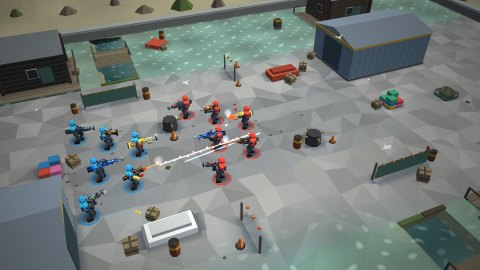
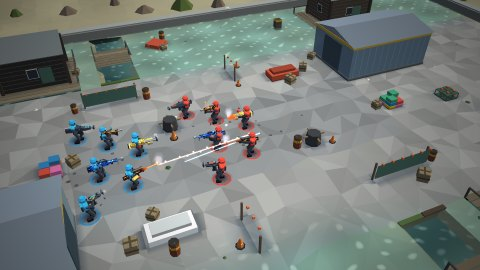
Coast: Conquest flag C at the Swing Bridge (two near flags a side), merge fix in cardart.js, sim-br logs the cleared items
Claude-Session: https://claude.ai/code/session_015yPczfganKKDdg1N2GSCyT

diff --git a/js/shared/changelog.js b/js/shared/changelog.js
@@ -9,7 +9,7 @@ export const CHANGELOG = [
       'Kittiwake Bay, a new battle royale map on a windy, bright morning by the sea. A fishing town on its hill, a harbour, tidal flats you can wade across (slowly), a sand spit with a seaside resort, and a headland with a lighthouse on its point. Pick it in the Battle Royale vote and play Rebound and Extraction there too.',
       'Four new 6v6 maps, each one a part of the bay. Fish Market: an open iron market hall on the harbour, with trawlers tied up in the basins at its corners. Shipyard: a dry dock with two hulls bow to bow and gantry cranes over them. Drop in and fight along the hulls, or keep to the rim and the yards. Boardwalk: a planked promenade under the pier gates, a carousel and a helter-skelter, arcades and beach huts, and surf that slows you down. Stilt Row: a fishing hamlet on a shingle bank, with stilt huts out on the flats and a creek to cross by footbridge.',
       'In the bay, every district\'s buildings open up so you can loot them, and 14 more places surround them: St Agnes church, the Market Cross, the Harbour Office, Windmill Hill, the Freight Quay, the Lifeboat Station, the Cannery, the Coastguard Station, the Gun Battery, Lantern Point, the Dune Camp, the Lido, the Winter Gardens and the Pleasure Pier with its big wheel.',
-      'Conquest and Breakthrough on Kittiwake Bay. Kittiwake: Harbour has six flags across the harbour, the flats and the spit. Kittiwake: Harbour Road is a push from the Lifeboat Station through the Fish Market and the Shipyard to the Cannery.',
+      'Conquest and Breakthrough on Kittiwake Bay. Kittiwake: Harbour has six flags across the harbour, the shipyard, the spit and the flats. Kittiwake: Harbour Road is a push from the Lifeboat Station through the Fish Market and the Shipyard to the Cannery.',
       'New map cards for all five maps, with their own art.',
     ],
   },

diff --git a/js/shared/maps/br-kittiwake.js b/js/shared/maps/br-kittiwake.js
@@ -468,14 +468,16 @@ function build() {
   const reboundAreas = [{ x: 210, z: 190, r: 150 }, { x: 236, z: 176, r: 150 }, { x: 200, z: 160, r: 150 }, { x: 226, z: 214, r: 150 }];
 
   // Conquest and Breakthrough (docs/MODES.md "Layout format"): the harbour, the bay and the spit; Harbour Road west to
-  // east. Every point is moved onto dry open ground round its place.
+  // east. Every point is moved onto dry open ground round its place. Each side has two flags near its HQ (the Fish
+  // Market and the Swing Bridge; the Cannery and Stilt Row): with the Causeway in place of the Swing Bridge the east
+  // side held two flags to the west's one from the opening and won every bot match.
   const pt = (x, z, extra = {}) => ({ ...spot(x, z), ...extra });
   const bf = {
     conquest: [{
       id: 'harbour', name: 'Kittiwake: Harbour', area: { x: 14, z: 120, w: 372, h: 210 },
       hq: [pt(28, 176, { r: 10 }), pt(370, 176, { r: 10 })],
       flags: [
-        pt(80, 176, { id: 'A', name: 'Fish Market' }), pt(200, 176, { id: 'B', name: 'Shipyard' }), pt(130, 250, { id: 'C', name: 'The Causeway' }),
+        pt(80, 176, { id: 'A', name: 'Fish Market' }), pt(200, 176, { id: 'B', name: 'Shipyard' }), pt(64, 130, { id: 'C', name: 'Swing Bridge' }),
         pt(190, 300, { id: 'D', name: 'Boardwalk' }), pt(290, 176, { id: 'E', name: 'The Cannery' }), pt(302, 245, { id: 'F', name: 'Stilt Row' }),
       ],
     }],

diff --git a/js/ui/cardart.js b/js/ui/cardart.js
@@ -310,6 +310,8 @@ export const REWARD_PATTERNS = {
     for (let k = 0; k < 4; k++) s += path(`M${114 + k * 44} 30 Q${132 + k * 44} 14 ${150 + k * 44} 30`, c[2], 0.8, op('.6'));
     for (let i = 0; i < 18; i++) s += rect(100 + r() * 180, 56 - Math.floor(r() * 3) * 5, 9, 4.6, ['#d04a3a', '#2f7aa8', '#e0b030', '#3e9a6a'][i % 4], op('.9'));
     for (let k = 0; k < 4; k++) { const x = 122 + k * 44; s += circ(x + 10, 13 + (k % 2) * 3, 1.8, c[2]) + poly([[x + 8, 13 + (k % 2) * 3], [x + 4, 11 + (k % 2) * 3], [x + 9, 12 + (k % 2) * 3]], c[2]); }
+    return s;
+  },
   serai(c, r) {            // Caravanserai: the inn's crenellated wall and arched gate, the well house's dome behind, a lantern.
     let s = circ(272, 20, 16, c[3], op('.14')) + circ(272, 20, 7, c[3], op('.3'));
     s += fillPath('M196 40 Q196 24 212 22 Q228 24 228 40 Z', c[2], op('.7')) + rect(210.6, 14, 2.8, 8, c[3]);

diff --git a/docs/DISTRICTS.md b/docs/DISTRICTS.md
@@ -258,7 +258,7 @@ wading water as `shallows`), so the streamer draws beaches, banks and the shallo
 - `js/shared/maps/fishmarket.js`, `shipyard.js`, `boardwalk.js`, `stiltrow.js`: the districts (appended to `MAPS`).
 - `js/shared/maps/br-kittiwake.js`: the bay. `districts`, `br` (18 places, loot, caches, `circleBias`,
   `reboundAreas`, `exfils` with reserved landing zones), `bf` (Conquest "Kittiwake: Harbour", six flags: Fish
-  Market, Shipyard, The Causeway, Boardwalk, The Cannery, Stilt Row; Breakthrough "Kittiwake: Harbour Road", west to
+  Market, Shipyard, Swing Bridge, Boardwalk, The Cannery, Stilt Row; Breakthrough "Kittiwake: Harbour Road", west to
   east, one sector per place: Fish Market, Shipyard, The Cannery).
 - `js/render/themes/shore.js` (new): `THEMES.shore` (`giant: true`), ground, zones, roads, building styles, the `shore`
   skin's drawers for every piece the bay uses (market hall columns and counters, sheds, ice house, smokehouse, net
